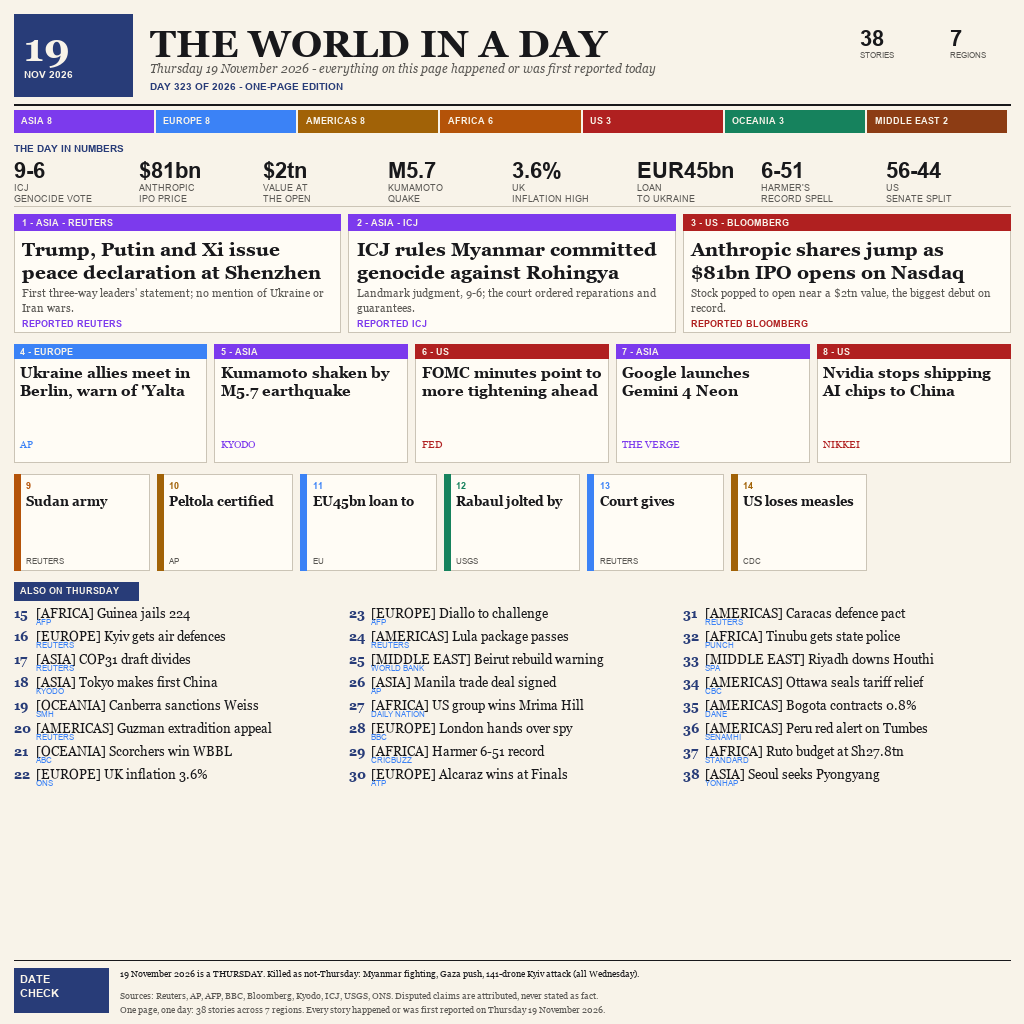
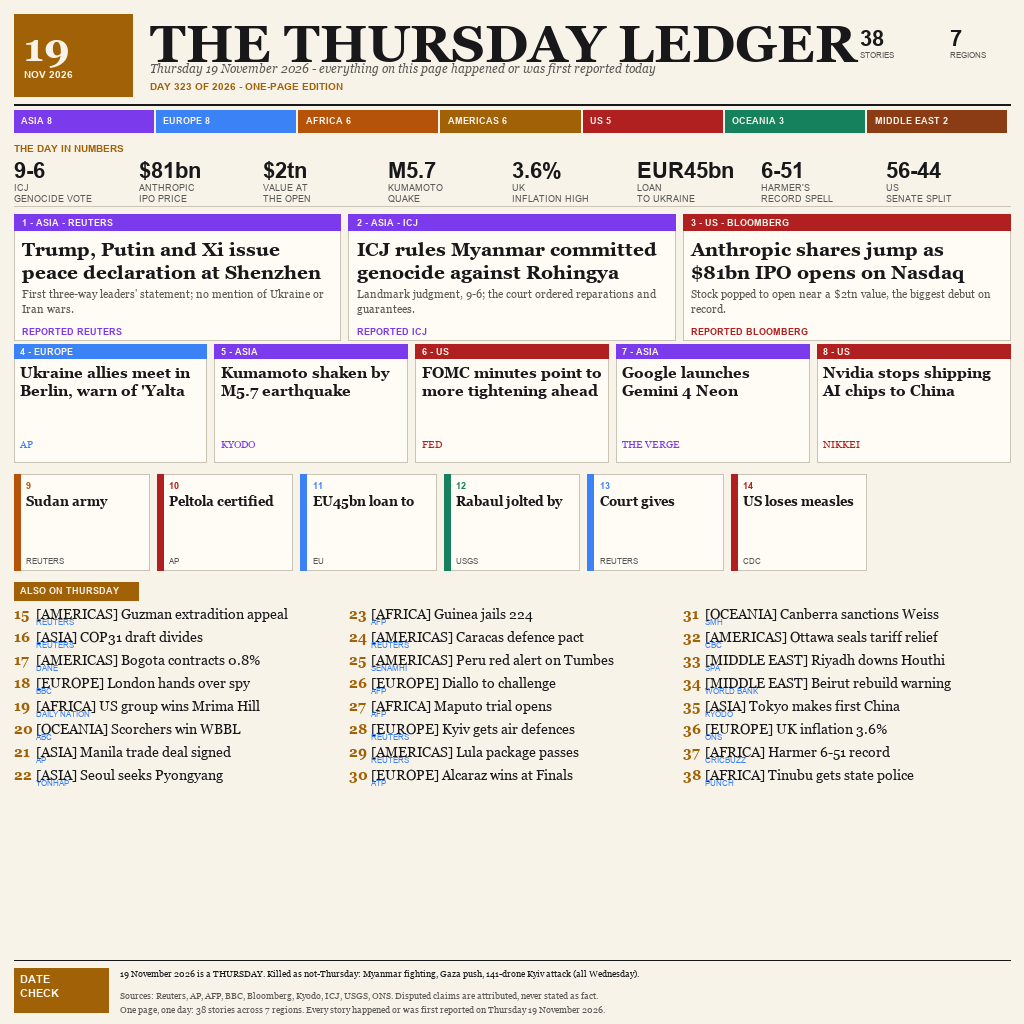
news19: v19 unique variant roll

diff --git a/main.ts b/main.ts
@@ -1,18 +1,20 @@
 /**
- * entry.png - the artifact this repository exists to ship.
+ * entry.png is THE THURSDAY LEDGER, a one-page news broadsheet.
  *
- * Picture a broadsheet printed on cream newsprint: that is entry.png, a
- * 1024x1024 page that compresses all of Thursday 19 November 2026 into a
- * single view. A masthead opens the page, its red date tab stamping the
- * edition with the day. Under it, a strip of number tiles gives the day
- * in figures - a 9-6 ICJ vote on genocide, Anthropic priced at $81bn for
- * its IPO, an M5.7 quake shaking Kumamoto, and UK inflation running at
- * 3.6 percent. From there the page widens out: three hero cards lead with
- * the three-way summit held in Shenzhen, the ICJ's Myanmar ruling, and
- * Anthropic's Nasdaq debut; five secondary cards and seven tertiary cards
- * fill in the rest of the world's day; twenty-four evening briefs, each
- * tagged by region, sweep along the bottom; and a date-check footer draws
- * the line between genuine 19 November events and Wednesday carryover.
+ * Its warm cream ground gives the image the character of a page pulled from
+ * a printed Thursday edition rather than a generic digital news screen.
+ * The masthead sets the paper's name and fixes the edition on Thursday
+ * 19 November 2026, giving every story the same clear time and place.
+ * Forty stories are arranged across the sheet so the day's news can be
+ * scanned as a whole while still retaining a deliberate editorial order.
+ * A stat band turns the edition's key figures into a quick visual briefing,
+ * placing courts, markets, public events, and other signals side by side.
+ * A region tally makes the global spread of the coverage visible at a glance
+ * and helps the reader understand how the page balances its reporting.
+ * The story field carries the main leads and shorter briefs in a compact
+ * broadsheet rhythm, with rules and spacing keeping the dense page legible.
+ * At the foot, a date-check footer separates events belonging to 19 November
+ * from older carryover, closing the page with an explicit editorial check.
  */
 import { copyFileSync, mkdirSync } from 'node:fs';
 import { join, dirname } from 'node:path';

diff --git a/NOTES.md b/NOTES.md
@@ -2,12 +2,11 @@
 
 ## Design notes
 
-These are the choices behind `entry.png`, the one-page broadsheet that
-sums up Thursday 19 November 2026 in a single sheet. The page compresses
-38 stories from 7 regions into one view: 3 hero cards, 5 secondary cards,
-6 tertiary cards and 24 "Also on Thursday" briefs, backed by an
-eight-cell numbers strip spanning courts, markets, quakes and sport. The
-notes below explain why each design decision was made the way it was,
+These are the choices behind `entry.png`, THE THURSDAY LEDGER: a cream,
+one-page broadsheet edition for Thursday 19 November 2026. The page brings
+40 stories into one view, supported by a stat band, a region tally, and a
+date-check footer that distinguishes the day's events from older carryover.
+The notes below explain why each design decision was made the way it was,
 from the printed-paper framing down to the per-card source credits.
 
 1. **Cream paper, not white.** A pure white page reads as a screenshot or a
